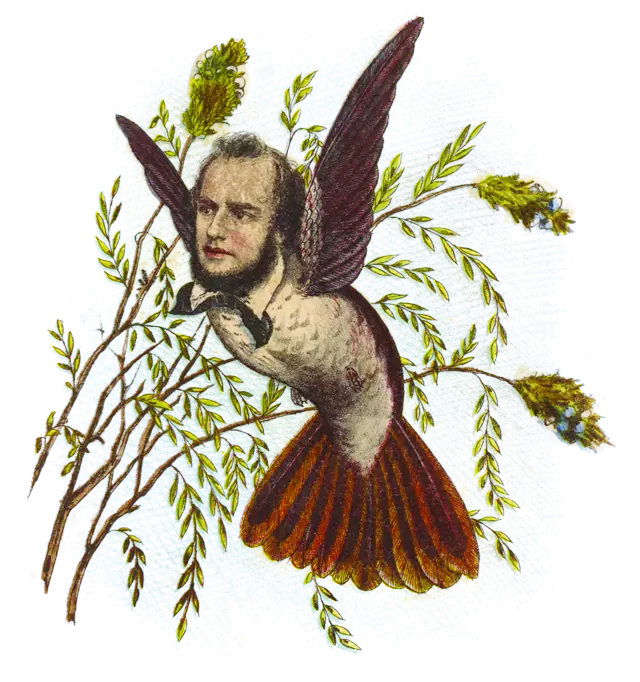
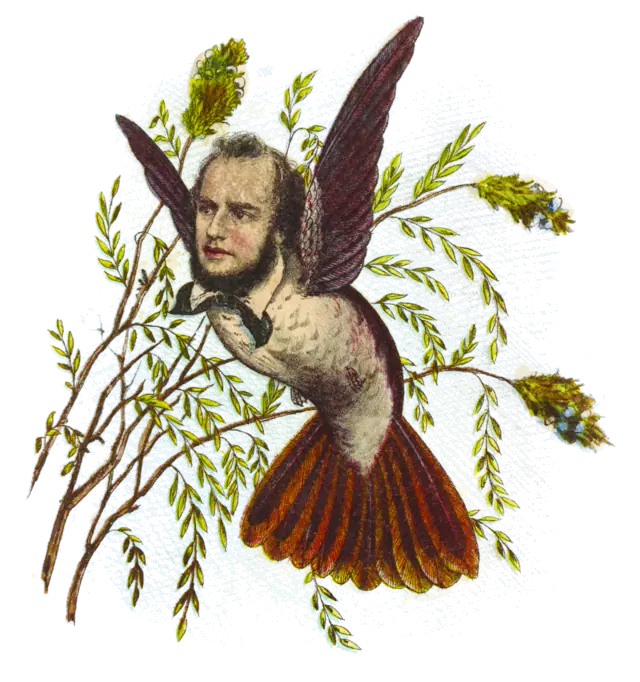
yay final (?) image renderings + picture/srcset markup

diff --git a/index.html b/index.html
@@ -26,8 +26,14 @@
 		<a href="the-woodpecker">
 
 			<picture>
-				<source type="image/webp" srcset="the-woodpecker/medium.webp" />
-				<img class="illustration" src="the-woodpecker/medium.jpg" alt />
+				<source type="image/webp"
+				        srcset="the-woodpecker/thumb.webp    1x,
+				                the-woodpecker/thumb@2x.webp 2x" />
+				<img class="illustration"
+				     srcset="the-woodpecker/thumb.jpg    1x,
+				             the-woodpecker/thumb@2x.jpg 2x"
+				     src="the-woodpecker/thumb.jpg" 
+				     alt="A woodpecker with a man’s head perched on a branch." />
 			</picture>
 
 			<div class="hgroup">
@@ -40,8 +46,14 @@
 	<li>
 		<a href="the-lark">
 			<picture>
-				<source type="image/webp" srcset="the-lark/medium.webp" />
-				<img class="illustration" src="the-lark/medium.jpg" alt />
+				<source type="image/webp"
+				        srcset="the-lark/thumb.webp    1x,
+				                the-lark/thumb@2x.webp 2x" />
+				<img class="illustration"
+				     srcset="the-lark/thumb.jpg    1x,
+				             the-lark/thumb@2x.jpg 2x"
+				     src="the-lark/thumb.jpg" 
+				     alt="A drunk bird with a man’s head looking shabby on a streetcorner." />
 			</picture>
 			<div class="hgroup">
 				<div class="h"><span>The Lark</span></div>
@@ -53,8 +65,14 @@
 	<li>
 		<a href="the-hum-bug">
 			<picture>
-				<source type="image/webp" srcset="the-hum-bug/medium.webp" />
-				<img class="illustration" src="the-hum-bug/medium.jpg" alt />
+				<source type="image/webp"
+				        srcset="the-hum-bug/thumb.webp    1x,
+				                the-hum-bug/thumb@2x.webp 2x" />
+				<img class="illustration"
+				     srcset="the-hum-bug/thumb.jpg    1x,
+				             the-hum-bug/thumb@2x.jpg 2x"
+				     src="the-hum-bug/thumb.jpg" 
+				     alt="A beetle with a man’s head." />
 			</picture>
 			<div class="hgroup">
 				<div class="h"><span>The Hum-Bug</span></div>
@@ -66,8 +84,14 @@
 	<li>
 		<a href="the-florence-humming-bird">
 			<picture>
-				<source type="image/webp" srcset="the-florence-humming-bird/medium.webp" />
-				<img class="illustration" src="the-florence-humming-bird/medium.jpg" alt />
+				<source type="image/webp"
+				        srcset="the-florence-humming-bird/thumb.webp    1x,
+				                the-florence-humming-bird/thumb@2x.webp 2x" />
+				<img class="illustration"
+				     srcset="the-florence-humming-bird/thumb.jpg    1x,
+				             the-florence-humming-bird/thumb@2x.jpg 2x"
+				     src="the-florence-humming-bird/thumb.jpg" 
+				     alt="A hummingbird with a man’s head hovering in front of some decorative branches." />
 			</picture>
 			<div class="hgroup">
 				<div class="h"><span>The Florence Humming Bird</span></div>
@@ -79,8 +103,14 @@
 	<li>
 		<a href="the-masonic-terrapin">
 			<picture>
-				<source type="image/webp" srcset="the-masonic-terrapin/medium.webp" />
-				<img class="illustration" src="the-masonic-terrapin/medium.jpg" alt />
+				<source type="image/webp"
+				        srcset="the-masonic-terrapin/thumb.webp    1x,
+				                the-masonic-terrapin/thumb@2x.webp 2x" />
+				<img class="illustration"
+				     srcset="the-masonic-terrapin/thumb.jpg    1x,
+				             the-masonic-terrapin/thumb@2x.jpg 2x"
+				     src="the-masonic-terrapin/thumb.jpg" 
+				     alt="A turtle with a man’s head looking upset and confused." />
 			</picture>
 			<div class="hgroup">
 				<div class="h"><span>The Masonic Terrapin</span></div>
@@ -92,8 +122,14 @@
 	<li>
 		<a href="the-vampyre">
 			<picture>
-				<source type="image/webp" srcset="the-vampyre/medium.webp" />
-				<img class="illustration" src="the-vampyre/medium.jpg" alt />
+				<source type="image/webp"
+				        srcset="the-vampyre/thumb.webp    1x,
+				                the-vampyre/thumb@2x.webp 2x" />
+				<img class="illustration"
+				     srcset="the-vampyre/thumb.jpg    1x,
+				             the-vampyre/thumb@2x.jpg 2x"
+				     src="the-vampyre/thumb.jpg" 
+				     alt="A fanged bat with a man’s head with wings spread." />
 			</picture>
 			<div class="hgroup">
 				<div class="h"><span>The Vampyre</span></div>
@@ -107,7 +143,7 @@
 
 <footer>
 <p><small>Published by <a href="http://ericportis.com">Eric Portis</a>.</small></p>
-<p><small>All text and images found within and copied from <a href="https://archive.org/details/comicnaturalhist00steprich">The Internet Archive.</a></small></p>
+<p><small>Text and images were discovered in and copied from <a href="https://archive.org/details/comicnaturalhist00steprich">The Internet Archive.</a></small></p>
 </footer>
 
 </body>

diff --git a/style.css b/style.css
@@ -97,7 +97,7 @@ p {
 	        hyphens: auto;
 }
 
-.hgroup p, .pseudonym, footer p{
+.hgroup p, .pseudonym, footer p {
 	text-indent: 0;
 }
 
@@ -137,8 +137,8 @@ cite:after {
 
 .logo {
 	width: 10em;
-	max-width: 82vw;
-	margin: 8vw;
+	max-width: 82%;
+	margin: 8%;
 	margin-bottom: 0;
 }
 
@@ -216,8 +216,8 @@ footer .next {
 .giant-logotype {
 	margin: 0;
 	margin-bottom: 3em;
-	width: 100vw;
-	height: calc( 100vw / 2.75 );
+	width: 100%;
+	height: calc( 100vw / 2.75 ); /* fixed aspect ratio */
 	display: -webkit-flex;
 	display: flex;
 	-webkit-justify-content: center;
@@ -229,8 +229,8 @@ footer .next {
 
 .giant-logotype img {
 	width: 100%;
-	max-width: 35rem;
-	max-height: calc( 100vw / 2.75 );
+	max-width: 560px;
+	max-height: calc( 100vw / 2.75 ); /* fixed aspect ratio */
 }
 
 @media ( min-width: 480px ) { 

diff --git a/the-florence-humming-bird/index.html b/the-florence-humming-bird/index.html
@@ -15,8 +15,19 @@
 <a href="/" class="go-home"><img class="logo" src="/images/The_Comic_Natural_History.svg" alt="The Comic Natural History" /></a>
 
 <picture>
-	<source type="image/webp" srcset="medium.webp" />
-	<img class="illustration" src="medium.jpg" alt />
+	<source type="image/webp"
+	        srcset="medium.webp    640w,
+	                thumb.webp     224w,
+	                thumb@2x.webp  448w,
+	                small.webp     320w,
+	                large.webp    1280w" />
+	<img class="illustration"
+	     srcset="medium.jpg    640w,
+	             thumb.jpg     224w,
+	             thumb@2x.jpg  448w,
+	             small.jpg     320w,
+	             large.jpg    1280w"
+	     src="medium.jpg" alt />
 </picture>
 
 <div class="hgroup">

diff --git a/the-hum-bug/index.html b/the-hum-bug/index.html
@@ -15,8 +15,19 @@
 <a href="/" class="go-home"><img class="logo" src="/images/The_Comic_Natural_History.svg" alt="The Comic Natural History" /></a>
 
 <picture>
-	<source type="image/webp" srcset="medium.webp" />
-	<img class="illustration" src="medium.jpg" alt />
+	<source type="image/webp"
+	        srcset="medium.webp    640w,
+	                thumb.webp     224w,
+	                thumb@2x.webp  448w,
+	                small.webp     320w,
+	                large.webp    1280w" />
+	<img class="illustration"
+	     srcset="medium.jpg    640w,
+	             thumb.jpg     224w,
+	             thumb@2x.jpg  448w,
+	             small.jpg     320w,
+	             large.jpg    1280w"
+	     src="medium.jpg" alt />
 </picture>
 
 <div class="hgroup">

diff --git a/the-lark/index.html b/the-lark/index.html
@@ -15,8 +15,19 @@
 <a href="/" class="go-home"><img class="logo" src="/images/The_Comic_Natural_History.svg" alt="The Comic Natural History" /></a>
 
 <picture>
-	<source type="image/webp" srcset="medium.webp" />
-	<img class="illustration" src="medium.jpg" alt />
+	<source type="image/webp"
+	        srcset="medium.webp    640w,
+	                thumb.webp     224w,
+	                thumb@2x.webp  448w,
+	                small.webp     320w,
+	                large.webp    1280w" />
+	<img class="illustration"
+	     srcset="medium.jpg    640w,
+	             thumb.jpg     224w,
+	             thumb@2x.jpg  448w,
+	             small.jpg     320w,
+	             large.jpg    1280w"
+	     src="medium.jpg" alt />
 </picture>
 
 <div class="hgroup">

diff --git a/the-masonic-terrapin/index.html b/the-masonic-terrapin/index.html
@@ -15,8 +15,19 @@
 <a href="/" class="go-home"><img class="logo" src="/images/The_Comic_Natural_History.svg" alt="The Comic Natural History" /></a>
 
 <picture>
-	<source type="image/webp" srcset="medium.webp" />
-	<img class="illustration" src="medium.jpg" alt />
+	<source type="image/webp"
+	        srcset="medium.webp    640w,
+	                thumb.webp     224w,
+	                thumb@2x.webp  448w,
+	                small.webp     320w,
+	                large.webp    1280w" />
+	<img class="illustration"
+	     srcset="medium.jpg    640w,
+	             thumb.jpg     224w,
+	             thumb@2x.jpg  448w,
+	             small.jpg     320w,
+	             large.jpg    1280w"
+	     src="medium.jpg" alt />
 </picture>
 
 <div class="hgroup">

diff --git a/the-vampyre/index.html b/the-vampyre/index.html
@@ -15,8 +15,19 @@
 <a href="/" class="go-home"><img class="logo" src="/images/The_Comic_Natural_History.svg" alt="The Comic Natural History" /></a>
 
 <picture>
-	<source type="image/webp" srcset="medium.webp" />
-	<img class="illustration" src="medium.jpg" alt />
+	<source type="image/webp"
+	        srcset="medium.webp    640w,
+	                thumb.webp     224w,
+	                thumb@2x.webp  448w,
+	                small.webp     320w,
+	                large.webp    1280w" />
+	<img class="illustration"
+	     srcset="medium.jpg    640w,
+	             thumb.jpg     224w,
+	             thumb@2x.jpg  448w,
+	             small.jpg     320w,
+	             large.jpg    1280w"
+	     src="medium.jpg" alt />
 </picture>
 
 <div class="hgroup">
